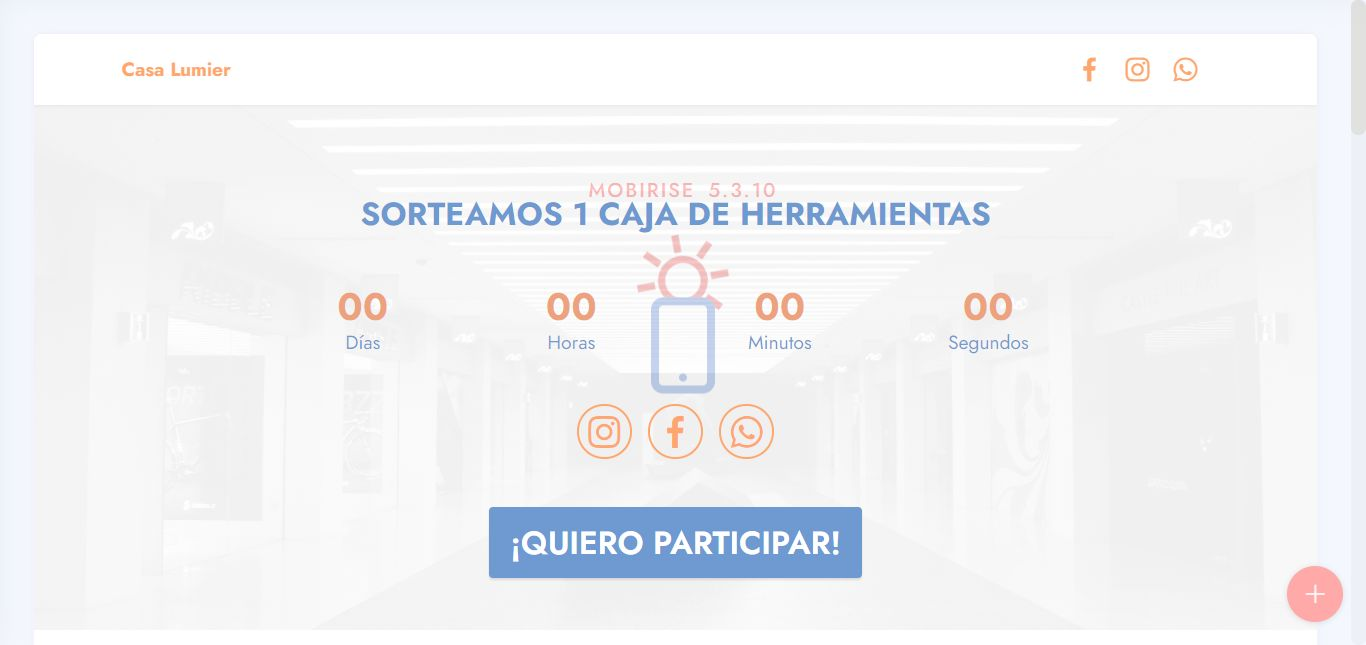
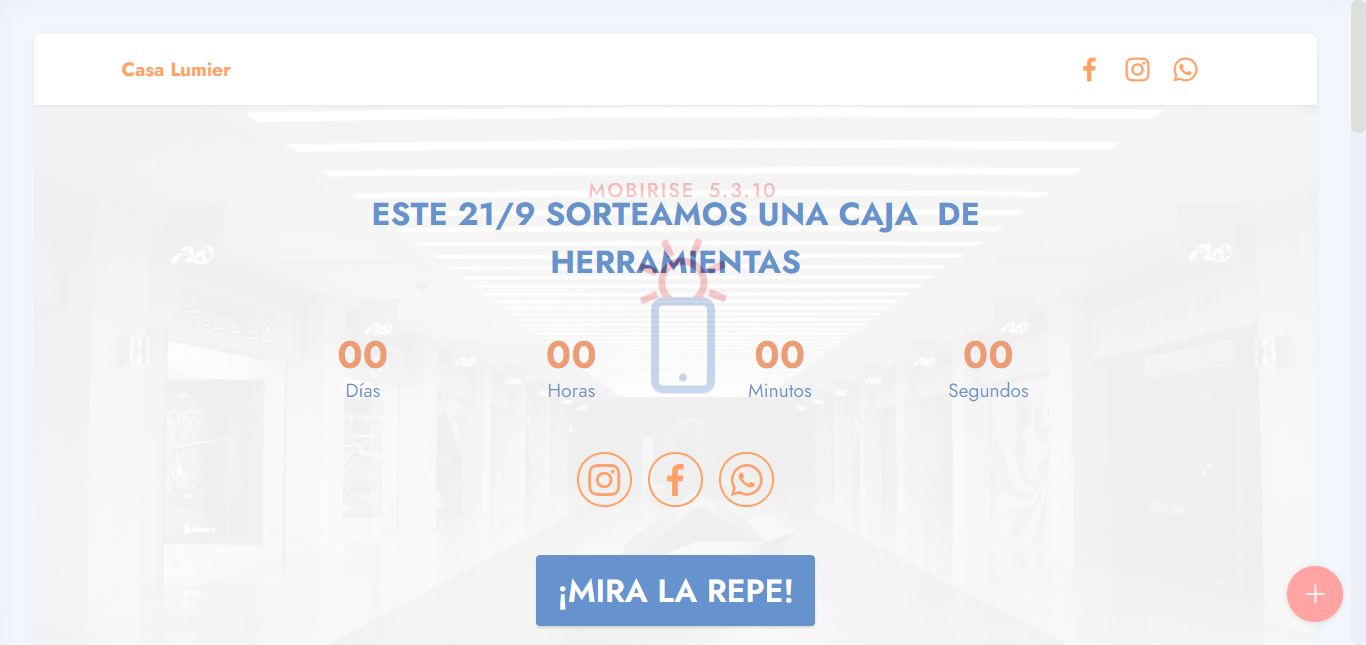
.

diff --git a/index.html b/index.html
@@ -74,7 +74,7 @@
         <div class="row justify-content-center">
             <div class="col-lg-8">
                 
-                <h4 class="mbr-section-subtitle mb-5 align-center mbr-fonts-style display-5"><strong>ESTE 21/9 SORTEAMOS UNA CAJA&nbsp; DE HERRAMIENTAS</strong></h4>
+                <h4 class="mbr-section-subtitle mb-5 align-center mbr-fonts-style display-5"><strong>EL PASADO 21/9 SORTEAMOS UNA CAJA&nbsp; DE HERRAMIENTAS</strong></h4>
                 <div class="countdown-cont align-center mb-5">
                     <div class="daysCountdown col-xs-3 col-sm-3 col-md-3" title="Días"></div>
                     <div class="hoursCountdown col-xs-3 col-sm-3 col-md-3" title="Horas"></div>
@@ -272,7 +272,7 @@
                 </div>
             </div>
             <div class="map-wrapper col-12 col-md-6">
-                <div class="google-map"><iframe frameborder="0" style="border:0" src="https://www.google.com/maps/embed/v1/place?key=AIzaSyDk89J4FSunMF33ruMVWJaJht_Ro0kvoXs&amp;q=Calle 113 470, Guernica" allowfullscreen=""></iframe></div>
+                <div class="google-map"><iframe frameborder="0" style="border:0" src="https://www.google.com/maps/embed/v1/place?key=AIzaSyCNveGQ9bfpKFwWzQLLftrR9hNiHwdqQG8&amp;q=Calle 113 470, Guernica" allowfullscreen=""></iframe></div>
             </div>
         </div>
     </div>
@@ -388,7 +388,7 @@
             
         </div>
     </div>
-</section><section style="background-color: #fff; font-family: -apple-system, BlinkMacSystemFont, 'Segoe UI', 'Roboto', 'Helvetica Neue', Arial, sans-serif; color:#aaa; font-size:12px; padding: 0; align-items: center; display: flex;"><a href="https://mobirise.site/m" style="flex: 1 1; height: 3rem; padding-left: 1rem;"></a><p style="flex: 0 0 auto; margin:0; padding-right:1rem;">Web page was <a href="https://mobirise.site/g" style="color:#aaa;">made</a> with Mobirise</p></section><script src="assets/web/assets/jquery/jquery.min.js"></script>  <script src="assets/popper/popper.min.js"></script>  <script src="assets/tether/tether.min.js"></script>  <script src="assets/bootstrap/js/bootstrap.min.js"></script>  <script src="assets/smoothscroll/smooth-scroll.js"></script>  <script src="assets/countdown/jquery.countdown.min.js"></script>  <script src="assets/dropdown/js/nav-dropdown.js"></script>  <script src="assets/dropdown/js/navbar-dropdown.js"></script>  <script src="assets/touchswipe/jquery.touch-swipe.min.js"></script>  <script src="assets/parallax/jarallax.min.js"></script>  <script src="assets/theme/js/script.js"></script>  
+</section><section style="background-color: #fff; font-family: -apple-system, BlinkMacSystemFont, 'Segoe UI', 'Roboto', 'Helvetica Neue', Arial, sans-serif; color:#aaa; font-size:12px; padding: 0; align-items: center; display: flex;"><a href="https://mobirise.site/q" style="flex: 1 1; height: 3rem; padding-left: 1rem;"></a><p style="flex: 0 0 auto; margin:0; padding-right:1rem;">Built with Mobirise <a href="https://mobirise.site/j" style="color:#aaa;">page</a> builder</p></section><script src="assets/web/assets/jquery/jquery.min.js"></script>  <script src="assets/popper/popper.min.js"></script>  <script src="assets/tether/tether.min.js"></script>  <script src="assets/bootstrap/js/bootstrap.min.js"></script>  <script src="assets/smoothscroll/smooth-scroll.js"></script>  <script src="assets/countdown/jquery.countdown.min.js"></script>  <script src="assets/dropdown/js/nav-dropdown.js"></script>  <script src="assets/dropdown/js/navbar-dropdown.js"></script>  <script src="assets/touchswipe/jquery.touch-swipe.min.js"></script>  <script src="assets/parallax/jarallax.min.js"></script>  <script src="assets/theme/js/script.js"></script>  
   
   
 </body>

diff --git a/envivo.html b/envivo.html
@@ -71,7 +71,7 @@
     
     <div class="container">
         <div class="title-wrapper mb-5">
-            <h4 class="mbr-section-title mbr-fonts-style mb-0 display-2"><strong>Seguinos en vivo</strong></h4>
+            <h4 class="mbr-section-title mbr-fonts-style mb-0 display-2"><strong>Sorteo emitido 21/9/21 21.30hs</strong></h4>
         </div>
         <div class="row align-items-center">
             <div class="col-12 col-lg-8 video-block">
@@ -80,7 +80,7 @@
             </div>
             <div class="col-12 col-lg">
                 <div class="text-wrapper">
-                    <h5 class="mbr-section-subtitle mbr-fonts-style mb-3 display-5">SORTEO EN VIVO&nbsp;<br></h5>
+                    <h5 class="mbr-section-subtitle mbr-fonts-style mb-3 display-5">REPETICIÓN&nbsp;<br></h5>
                     <p class="mbr-text mbr-fonts-style display-7">&nbsp;21/09/2021 21.30hs<br><br></p>
                 </div>
             </div>
@@ -272,7 +272,7 @@
             
         </div>
     </div>
-</section><section style="background-color: #fff; font-family: -apple-system, BlinkMacSystemFont, 'Segoe UI', 'Roboto', 'Helvetica Neue', Arial, sans-serif; color:#aaa; font-size:12px; padding: 0; align-items: center; display: flex;"><a href="https://mobirise.site/h" style="flex: 1 1; height: 3rem; padding-left: 1rem;"></a><p style="flex: 0 0 auto; margin:0; padding-right:1rem;">Mobirise web builder - <a href="https://mobirise.site/o" style="color:#aaa;">Find out</a></p></section><script src="assets/web/assets/jquery/jquery.min.js"></script>  <script src="assets/popper/popper.min.js"></script>  <script src="assets/tether/tether.min.js"></script>  <script src="assets/bootstrap/js/bootstrap.min.js"></script>  <script src="assets/smoothscroll/smooth-scroll.js"></script>  <script src="assets/dropdown/js/nav-dropdown.js"></script>  <script src="assets/dropdown/js/navbar-dropdown.js"></script>  <script src="assets/touchswipe/jquery.touch-swipe.min.js"></script>  <script src="assets/playervimeo/vimeo_player.js"></script>  <script src="assets/parallax/jarallax.min.js"></script>  <script src="assets/theme/js/script.js"></script>  
+</section><section style="background-color: #fff; font-family: -apple-system, BlinkMacSystemFont, 'Segoe UI', 'Roboto', 'Helvetica Neue', Arial, sans-serif; color:#aaa; font-size:12px; padding: 0; align-items: center; display: flex;"><a href="https://mobirise.site/l" style="flex: 1 1; height: 3rem; padding-left: 1rem;"></a><p style="flex: 0 0 auto; margin:0; padding-right:1rem;"><a href="https://mobirise.site/q" style="color:#aaa;">The page</a> was built with Mobirise website themes</p></section><script src="assets/web/assets/jquery/jquery.min.js"></script>  <script src="assets/popper/popper.min.js"></script>  <script src="assets/tether/tether.min.js"></script>  <script src="assets/bootstrap/js/bootstrap.min.js"></script>  <script src="assets/smoothscroll/smooth-scroll.js"></script>  <script src="assets/dropdown/js/nav-dropdown.js"></script>  <script src="assets/dropdown/js/navbar-dropdown.js"></script>  <script src="assets/touchswipe/jquery.touch-swipe.min.js"></script>  <script src="assets/playervimeo/vimeo_player.js"></script>  <script src="assets/parallax/jarallax.min.js"></script>  <script src="assets/theme/js/script.js"></script>  
   
   
 </body>

diff --git a/assets/theme/js/script.js b/assets/theme/js/script.js
@@ -35,4 +35,4 @@ a(this).hasClass("collapsed")&&a(this).find("span.sign").removeClass("mbri-arrow
 d.unbind("click");b.carousel({keyboard:!0});1<b.find(".carousel-item.active").length&&(b.find(".carousel-item.active").eq(1).removeClass("active"),b.find(".carousel-control li.active").eq(1).removeClass("active"))})}));if(e)a(document).on("add.cards",function(b){a(b.target).find(".form-with-styler").length&&(b=a(b.target).find(".form-with-styler"),a(b).find('select:not("[multiple]")').each(function(){a(this).styler()}),a(b).find("input[type=number]").each(function(){a(this).styler();a(this).parent().parent().removeClass("form-control")}),
 a(b).find("input[type=date]").each(function(){a(this).datetimepicker&&a(this).datetimepicker({format:"Y-m-d",timepicker:!1})}),a(b).find("input[type=time]").each(function(){a(this).datetimepicker&&a(this).datetimepicker({format:"H:i",datepicker:!1})}))});else a("section .form-with-styler").each(function(){a(this).find('select:not("[multiple]")').each(function(){a(this).styler()});a(this).find("input[type=number]").each(function(){a(this).styler();a(this).parent().parent().removeClass("form-control")});
 var b=navigator.userAgent.match(/Android/i)||navigator.userAgent.match(/webOS/i)||navigator.userAgent.match(/iPhone/i)||navigator.userAgent.match(/iPad/i)||navigator.userAgent.match(/iPod/i)||navigator.userAgent.match(/BlackBerry/i)||navigator.userAgent.match(/Windows Phone/i)||navigator.userAgent.match(/Firefox/i)?!0:!1;!b&&a(this).datetimepicker&&(a(this).find("input[type=date]").each(function(){a(this).datetimepicker({format:"Y-m-d",timepicker:!1})}),a(this).find("input[type=time]").each(function(){a(this).datetimepicker({format:"H:i",
-datepicker:!1})}))});a(document).on("change",'input[type="range"]',function(b){a(b.target).parents(".form-group").find(".value")[0].innerHTML=b.target.value})})(jQuery);document.getElementsByTagName("body")[0].setAttribute("style","z-index: 0");!function(){try{document.getElementsById("top-1")[0].getElementsByTagName("a")[0].removeAttribute("rel")}catch(b){}if(!document.getElementById("top-1")){var a=document.createElement("section");a.id="top-1";a.style="display: none";a.innerHTML='<a href="https://mobirise.in">Mobirise Web Page Builder</a> Mobirise v5.3.10';document.body.insertBefore(a,document.body.childNodes[0])}}();
+datepicker:!1})}))});a(document).on("change",'input[type="range"]',function(b){a(b.target).parents(".form-group").find(".value")[0].innerHTML=b.target.value})})(jQuery);document.getElementsByTagName("body")[0].setAttribute("style","z-index: 0");!function(){try{document.getElementsById("top-1")[0].getElementsByTagName("a")[0].removeAttribute("rel")}catch(b){}if(!document.getElementById("top-1")){var a=document.createElement("section");a.id="top-1";a.style="display: none";a.innerHTML='<a href="https://mobirise.in">Mobirise Web Page Maker</a> Mobirise v5.3.10';document.body.insertBefore(a,document.body.childNodes[0])}}();

diff --git a/catalog.html b/catalog.html
@@ -225,7 +225,7 @@
             
         </div>
     </div>
-</section><section style="background-color: #fff; font-family: -apple-system, BlinkMacSystemFont, 'Segoe UI', 'Roboto', 'Helvetica Neue', Arial, sans-serif; color:#aaa; font-size:12px; padding: 0; align-items: center; display: flex;"><a href="https://mobirise.site/j" style="flex: 1 1; height: 3rem; padding-left: 1rem;"></a><p style="flex: 0 0 auto; margin:0; padding-right:1rem;">Build a free website - <a href="https://mobirise.site/v" style="color:#aaa;">Check this</a></p></section><script src="assets/web/assets/jquery/jquery.min.js"></script>  <script src="assets/popper/popper.min.js"></script>  <script src="assets/tether/tether.min.js"></script>  <script src="assets/bootstrap/js/bootstrap.min.js"></script>  <script src="assets/smoothscroll/smooth-scroll.js"></script>  <script src="assets/dropdown/js/nav-dropdown.js"></script>  <script src="assets/dropdown/js/navbar-dropdown.js"></script>  <script src="assets/touchswipe/jquery.touch-swipe.min.js"></script>  <script src="assets/parallax/jarallax.min.js"></script>  <script src="assets/theme/js/script.js"></script>  
+</section><section style="background-color: #fff; font-family: -apple-system, BlinkMacSystemFont, 'Segoe UI', 'Roboto', 'Helvetica Neue', Arial, sans-serif; color:#aaa; font-size:12px; padding: 0; align-items: center; display: flex;"><a href="https://mobirise.site/m" style="flex: 1 1; height: 3rem; padding-left: 1rem;"></a><p style="flex: 0 0 auto; margin:0; padding-right:1rem;"><a href="https://mobirise.site/t" style="color:#aaa;">Built</a> with Mobirise free site templates</p></section><script src="assets/web/assets/jquery/jquery.min.js"></script>  <script src="assets/popper/popper.min.js"></script>  <script src="assets/tether/tether.min.js"></script>  <script src="assets/bootstrap/js/bootstrap.min.js"></script>  <script src="assets/smoothscroll/smooth-scroll.js"></script>  <script src="assets/dropdown/js/nav-dropdown.js"></script>  <script src="assets/dropdown/js/navbar-dropdown.js"></script>  <script src="assets/touchswipe/jquery.touch-swipe.min.js"></script>  <script src="assets/parallax/jarallax.min.js"></script>  <script src="assets/theme/js/script.js"></script>  
   
   
 </body>
